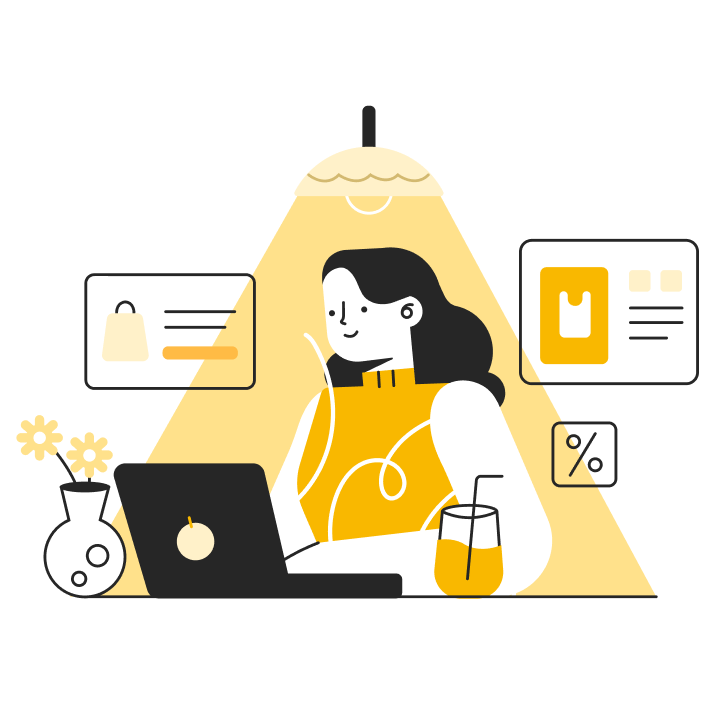
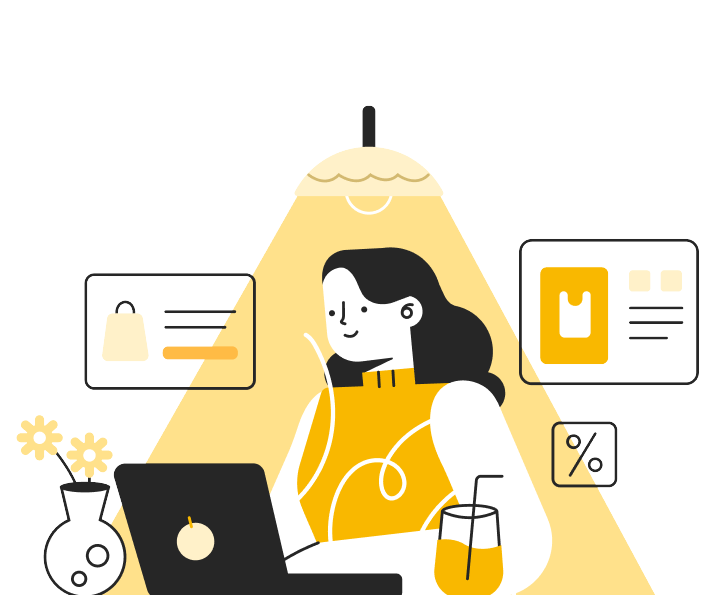
Home section responsive added

diff --git a/index.html b/index.html
@@ -8,69 +8,90 @@
   <link href="https://cdn.jsdelivr.net/npm/daisyui@4.12.14/dist/full.min.css" rel="stylesheet" type="text/css" />
   <link href="https://cdn.jsdelivr.net/npm/daisyui@4.12.14/dist/full.min.css" rel="stylesheet" type="text/css" />
   <script src="https://cdn.tailwindcss.com"></script>
+  <link rel="preconnect" href="https://fonts.googleapis.com">
+  <link rel="preconnect" href="https://fonts.gstatic.com" crossorigin>
+  <link href="https://fonts.googleapis.com/css2?family=Inter:wght@400;500;600;700&display=swap" rel="stylesheet">
+  <style>
+    @import url('https://fonts.googleapis.com/css2?family=Inter:ital,opsz,wght@0,14..32,100..900;1,14..32,100..900&display=swap');
+  </style>
+
+
 </head>
+<style>
+  body {
+    font-family: 'Inter', sans-serif;
+  }
+</style>
 
 <body class="m-0">
-  <main class="bg-yellow-200 h-auto w-fit">
-    <div class="mx-5 py-12">
-      <nav class=" flex justify-start w-screen bg-white rounded-xl p-4">
+  <main class="h-auto md:h-screen" style="background-color:#FEEDBC ;">
+    <div class="mx-7 py-12 md:mx-16 h-full">
+      <nav class="flex justify-start bg-white rounded-full p-4 md:justify-center md:p-2">
         <img src="images/logo.png" class="w-10- h-10">
       </nav>
-      <div>
-        <img src="images/home pic.png" alt="">
-      </div>
-      <div>
-        <p class="mb-5 text-xl font-semibold text-orange-500">Lorem, ipsum dolor.</p>
-        <h1 class="text-black mb-12 text-4xl font-bold">Lorem ipsum<br> dolor sit.</h1>
-        <div class="text-black">
-          <div class="rounded-full w-fit flex p-5 gap-3 bg-white mb-5">
-            <svg xmlns="http://www.w3.org/2000/svg" fill="none" viewBox="0 0 24 24" stroke-width="1.5" stroke="orange"
-              class="size-6">
-              <path stroke-linecap="round" stroke-linejoin="round"
-                d="M9 12.75 11.25 15 15 9.75M21 12a9 9 0 1 1-18 0 9 9 0 0 1 18 0Z" />
-            </svg>
-            <p>cursus Integer</p>
+      <div class="h-full flex flex-col md:flex-row-reverse md:items-center md:justify-around">
 
-          </div>
-          <div class="rounded-full w-fit flex p-5 bg-white gap-3 mb-5">
-            <svg xmlns="http://www.w3.org/2000/svg" fill="none" viewBox="0 0 24 24" stroke-width="1.5" stroke="orange"
-              class="size-6">
-              <path stroke-linecap="round" stroke-linejoin="round"
-                d="M9 12.75 11.25 15 15 9.75M21 12a9 9 0 1 1-18 0 9 9 0 0 1 18 0Z" />
-            </svg>
-            <p>Integer Consequat</p>
-
-          </div>
-          <div class=" rounded-full w-fit flex p-5 gap-3 bg-white mb-5">
-            <svg xmlns="http://www.w3.org/2000/svg" fill="none" viewBox="0 0 24 24" stroke-width="1.5" stroke="orange"
-              class="size-6">
-              <path stroke-linecap="round" stroke-linejoin="round"
-                d="M9 12.75 11.25 15 15 9.75M21 12a9 9 0 1 1-18 0 9 9 0 0 1 18 0Z" />
-            </svg>
-            <p>Tellus Euismod Pellentesque </p>
-
-          </div>
-          <div class="rounded-full w-fit flex p-5 bg-white gap-3 mb-5">
-            <svg xmlns="http://www.w3.org/2000/svg" fill="none" viewBox="0 0 24 24" stroke-width="1.5" stroke="orange"
-              class="size-6">
-              <path stroke-linecap="round" stroke-linejoin="round"
-                d="M9 12.75 11.25 15 15 9.75M21 12a9 9 0 1 1-18 0 9 9 0 0 1 18 0Z" />
-            </svg>
-            <p>cursus Integer</p>
-
-          </div>
-
+        <div class="flex items-end">
+          <img src="images/home pic.png" alt="" class="shrink-0 md: md:h-96">
         </div>
-        <button class=" text-black rounded-full bg-orange-500 flex justify-between w-full p-5 ">
-          Lorem Ipsum
-          <img src="images/icon.png"> </button>
+        <div class="h-full flex flex-col md:w-fit md:justify-center">
+
+          <div>
+            <p class="mb-3 text-xl font-semibold text-orange-500 md:">Lorem, ipsum dolor.</p>
+            <h1 class="text-black mb-12 text-4xl font-bold font-Inter md:text-5xl lg:text-6xl">Cursus Integer <br>Consequat Tristique.</h1>
+          </div>
+
+          <div class="text-xs text-black flex flex-col md:flex-row md:gap-2">
+            <div class="rounded-full w-fit flex items-center p-4 gap-3 bg-white mb-3 md:p-3 md:mb-2 md:gap-2">
+              <svg xmlns="http://www.w3.org/2000/svg" fill="none" viewBox="0 0 24 24" stroke-width="1.5" stroke="orange"
+                class="size-6">
+                <path stroke-linecap="round" stroke-linejoin="round"
+                  d="M9 12.75 11.25 15 15 9.75M21 12a9 9 0 1 1-18 0 9 9 0 0 1 18 0Z" />
+              </svg>
+              <p>cursus Integer</p>
+
+            </div>
+            <div class="rounded-full w-fit flex items-center p-4 gap-3 bg-white mb-3 md:p-3 md:mb-2 md:gap-2">
+              <svg xmlns="http://www.w3.org/2000/svg" fill="none" viewBox="0 0 24 24" stroke-width="1.5" stroke="orange"
+                class="size-6">
+                <path stroke-linecap="round" stroke-linejoin="round"
+                  d="M9 12.75 11.25 15 15 9.75M21 12a9 9 0 1 1-18 0 9 9 0 0 1 18 0Z" />
+              </svg>
+              <p>Integer Consequat</p>
+            </div>
+          </div>
+          <div class=" text-xs text-black flex  flex-col md:flex-row md:gap-2">
+            <div class="rounded-full w-fit flex items-center p-4 gap-3 bg-white mb-3 md:p-3 md:mb-2 md:gap-2">
+              <svg xmlns="http://www.w3.org/2000/svg" fill="none" viewBox="0 0 24 24" stroke-width="1.5" stroke="orange"
+                class="size-6">
+                <path stroke-linecap="round" stroke-linejoin="round"
+                  d="M9 12.75 11.25 15 15 9.75M21 12a9 9 0 1 1-18 0 9 9 0 0 1 18 0Z" />
+              </svg>
+              <p>Tellus Euismod Pellentesque </p>
+
+            </div>
+            <div class="rounded-full w-fit flex items-center p-4 gap-3 bg-white mb-3 md:p-3 md:mb-2 md:gap-2">
+              <svg xmlns="http://www.w3.org/2000/svg" fill="none" viewBox="0 0 24 24" stroke-width="1.5" stroke="orange"
+                class="size-6">
+                <path stroke-linecap="round" stroke-linejoin="round"
+                  d="M9 12.75 11.25 15 15 9.75M21 12a9 9 0 1 1-18 0 9 9 0 0 1 18 0Z" />
+              </svg>
+              <p>cursus Integer</p>
+            </div>
+          </div>
+          <button class=" text-black rounded-full flex justify-between mt-8 w-full p-5 md:p-3 md:px-7 md:w-fit md:gap-20" style="background-color:#F9B800 ;">
+            Lorem Ipsum
+            <img src="images/icon.png"> 
+          </button>
+        </div>
       </div>
   </main>
 
-  <section class="bg-gray-900">
-    <div class="mx-5 pt-10">
+  <section style="background-color: #262626;">
+    <div class="mx-7 pt-10 pb-96">
       <div class="mb-12">
-        <p class="text-xl font-semibold text text-yellow-300">Lorem ipsum dolor sit amet, consectetur adipisicing elit.
+        <p class="text-xl font-semibold text" style="color: #F9B800;">Lorem ipsum dolor sit amet, consectetur
+          adipisicing elit.
           Rerum a in labore consectetur aspernatur ducimus.</p>
         <h3 class="text-white font-bold my-8 text-4xl ">Cursus Integer Consequat ALiquam Tristique</h3>
         <button class="text-black font-bold rounded-full bg-white flex justify-between w-full py-5 px-8">
@@ -78,40 +99,42 @@
           <img src="images/icon.png">
         </button>
       </div>
+
+
       <div class="grid grid-cols-1">
-        <div class="bg-white p-12 rounded-[15%] mb-8">
+        <div class="bg-white p-16 rounded-[15%] mb-10">
           <img src="images/Icon-Images.png" alt="" class="mb-10">
           <h5 class="text-black font-bold text-5xl">1<span class="text-orange-600">.</span></h5>
           <p class="text-black font-bold text-2xl my-6">Lorem, ipsum.</p>
           <p class="text-black text-xl font-semibold">Lorem</p>
-          <p class="text-lg text-gray-400 font-sans">
+          <p class="text-lg text-gray-600 font-sans">
             Lorem, ipsum dolor.
           </p>
         </div>
-        <div class="bg-orange-400 p-12 rounded-[15%] mb-8">
+        <div class="p-16 rounded-[15%] mb-8" style="background-color: #F9B800;">
           <img src="images/icon-2.png" alt="" class="mb-10">
           <h5 class="text-black font-bold text-5xl">2<span class="text-white">.</span></h5>
           <p class="text-black font-bold text-2xl my-6">Lorem, ipsum.</p>
           <p class="text-black text-xl font-semibold">Lorem</p>
-          <p class="text-lg text-gray-400 font-sans">
+          <p class="text-lg text-gray-700 font-sans">
             Lorem, ipsum dolor.
           </p>
         </div>
-        <div class="bg-white p-12 rounded-[15%] mb-8">
+        <div class="bg-white p-16 rounded-[15%] mb-10">
           <img src="images/Icon-3.png" alt="" class="mb-10">
           <h5 class="text-black font-bold text-5xl">3<span class="text-orange-600">.</span></h5>
           <p class="text-black font-bold text-2xl my-6">Lorem, ipsum.</p>
           <p class="text-black text-xl font-semibold">Lorem</p>
-          <p class="text-lg text-gray-400 font-sans">
+          <p class="text-lg text-gray-600 font-sans">
             Lorem, ipsum dolor.
           </p>
         </div>
-        <div class="bg-orange-400 p-12 rounded-[15%] mb-8">
+        <div class="p-16 rounded-[15%] mb-8" style="background-color: #F9B800;">
           <img src="images/Icon-4.png" alt="" class="mb-10">
           <h5 class="text-black font-bold text-5xl">4<span class="text-white">.</span></h5>
           <p class="text-black font-bold text-2xl my-6">Lorem, ipsum.</p>
           <p class="text-black text-xl font-semibold">Lorem</p>
-          <p class="text-lg text-gray-400 font-sans">
+          <p class="text-lg text-gray-700 font-sans">
             Lorem, ipsum dolor.
           </p>
         </div>
@@ -119,88 +142,85 @@
     </div>
   </section>
 
-    <div class="bg-yellow-200 h-screen relative p-10">
-      <div class="w-full px-5 py-12 flex flex-col gap-8 bg-white rounded-3xl pb-10 absolute">
-        <img src="images/Man.png" alt="card-image p-5">
-        <div class="text-center">
-          <h3 class="text-black font-bold text-4xl ">What Our Customer Thought</h3>
-          <p class="my-8 font-light text-black text-lg">Euismod magna id purus eget nunc ligula suspendisse dui netus.
-            Condimentum blandit rutrum at mauris enim
-            pulvinar duis etiam duis. </p>
-          <h5 class="text-black font-bold text-2xl"> Holy Davidson</h5>
-        </div>
-        <button class="flex gap-8 justify-center">
-          <svg xmlns="http://www.w3.org/2000/svg" fill="none" viewBox="0 0 24 24" stroke-width="1.5" stroke="orange"
-            class="size-6">
-            <path stroke-linecap="round" stroke-linejoin="round" d="M6.75 15.75 3 12m0 0 3.75-3.75M3 12h18" />
-          </svg>
-          <svg xmlns="http://www.w3.org/2000/svg" fill="none" viewBox="0 0 24 24" stroke-width="1.5" stroke="black"
-            class="size-6">
-            <path stroke-linecap="round" stroke-linejoin="round" d="M17.25 8.25 21 12m0 0-3.75 3.75M21 12H3" />
-          </svg>
-        </button>
+  <div class="mx-auto  relative p-8" style="background-color: #F9B800;">
+    <div class="-translate-y-1/2 w-full h-full px-5 py-12 flex flex-col gap-8 bg-white rounded-3xl pb-10">
+      <div>
+        <img src="images/Man.png" alt="card-image" class="p-5">
       </div>
+      <div class="text-center">
+        <h3 class="text-black font-bold text-4xl ">What Our Customer Thought</h3>
+        <p class="my-8 font-light text-black text-lg">Euismod magna id purus eget nunc ligula suspendisse dui netus.
+          Condimentum blandit rutrum at mauris enim
+          pulvinar duis etiam duis. </p>
+        <h5 class="text-black font-bold text-2xl"> Holy Davidson</h5>
+      </div>
+      <button class="flex gap-8 justify-center">
+        <svg xmlns="http://www.w3.org/2000/svg" fill="none" viewBox="0 0 24 24" stroke-width="1.5" stroke="orange"
+          class="size-6">
+          <path stroke-linecap="round" stroke-linejoin="round" d="M6.75 15.75 3 12m0 0 3.75-3.75M3 12h18" />
+        </svg>
+        <svg xmlns="http://www.w3.org/2000/svg" fill="none" viewBox="0 0 24 24" stroke-width="1.5" stroke="black"
+          class="size-6">
+          <path stroke-linecap="round" stroke-linejoin="round" d="M17.25 8.25 21 12m0 0-3.75 3.75M21 12H3" />
+        </svg>
+      </button>
     </div>
+  </div>
 
 
-  <section class="bg-gray-800">
-    <div class="mx-5 py-16">
+  <section style="background-color: #262626;">
+    <div class="mx-7 py-16">
       <h3 class="mt-12 text-center text-white font-bold text-4xl ">Quam vehicula faucibus amet lorem. </h3>
       <p class="my-8 text-center text-xl font-semibold text text-white">Euismod magna id purus eget nunc ligula
         suspendisse dui netus. Condimentum blandit rutrum at mauris enim pulvinar duis etiam duis. Mauris fermentum
         praesent tellus euismod.</p>
-      <div class="flex mt-5 justify-between bg-white p-8 rounded-3xl">
-        <div>
-          <h5 class="text-black font-semibold text-2xl"> Holy Davidson</h5>
-          <p class="mt-6 font-light text-black text-lg">Euismod magna id purus eget nunc ligula suspendisse dui netus.
-            Condimentum blandit rutrum at mauris enim
-            pulvinar duis etiam duis. </p>
-        </div>
-        <svg xmlns="http://www.w3.org/2000/svg" fill="none" viewBox="0 0 24 24" stroke-width="1.5" stroke="orange"
-          class=" shrink-0 size-8">
-          <path stroke-linecap="round" stroke-linejoin="round" d="M5 12h14" />
-        </svg>
-      </div>
-      <div class="flex justify-between items-center mt-5 bg-white p-8 rounded-3xl">
-        <div>
-          <h5 class="text-black font-semibold text-2xl"> Pellentesque tempus sed phasellus vel. </h5>
-        </div>
-        <svg xmlns="http://www.w3.org/2000/svg" fill="none" viewBox="0 0 24 24" stroke-width="1.5" stroke="orange"
-          class="shrink-0 size-8">
-          <path stroke-linecap="round" stroke-linejoin="round" d="M12 4.5v15m7.5-7.5h-15" />
-        </svg>
-      </div>
-      <div class="flex items-center justify-between mt-5 bg-white p-8 rounded-3xl">
-        <div>
-          <h5 class="text-black font-semibold text-2xl"> Mauris fermentum praesent tellus euismod pellentesque urna ac
-            massa in. </h5>
-        </div>
-        <svg xmlns="http://www.w3.org/2000/svg" fill="none" viewBox="0 0 24 24" stroke-width="1.5" stroke="orange"
-          class="shrink-0 size-8">
-          <path stroke-linecap="round" stroke-linejoin="round" d="M12 4.5v15m7.5-7.5h-15" />
-        </svg>
-      </div>
+      <div class="flex flex-col gap-4 text-black">
 
-      <div class="flex items-center justify-between mt-5 bg-white p-8 rounded-3xl">
-        <div>
-          <h5 class="text-black font-semibold text-2xl"> Vulputate et vulputate suspendisse natoque id tellus
-            consectetur pulvinar et. </h5>
+        <div class="collapse collapse-plus bg-white">
+          <input type="radio" name="my-accordion-3" checked="checked" />
+          <div class="collapse-title text-xl font-medium">Quam vehicula faucibus amet lorem. </div>
+          <div class="collapse-content">
+            <p>Euismod magna id purus eget nunc ligula suspendisse dui netus. Condimentum blandit rutrum at mauris enim
+              pulvinar duis etiam duis. Mauris fermentum praesent tellus euismod.</p>
+          </div>
         </div>
-        <svg xmlns="http://www.w3.org/2000/svg" fill="none" viewBox="0 0 24 24" stroke-width="1.5" stroke="orange"
-          class="shrink-0 size-8">
-          <path stroke-linecap="round" stroke-linejoin="round" d="M12 4.5v15m7.5-7.5h-15" />
-        </svg>
+
+        <div class="collapse collapse-plus bg-white">
+          <input type="radio" name="my-accordion-3" />
+          <div class="collapse-title text-xl font-medium">Pellentesque tempus sed phasellus vel. </div>
+          <div class="collapse-content">
+            <p>hello</p>
+          </div>
+        </div>
+
+        <div class="collapse collapse-plus bg-white">
+          <input type="radio" name="my-accordion-3" />
+          <div class="collapse-title text-xl font-medium">Mauris fermentum praesent tellus euismod pellentesque urna ac
+            massa in. </div>
+          <div class="collapse-content">
+            <p>hello</p>
+          </div>
+        </div>
+        <div class="collapse collapse-plus bg-white">
+          <input type="radio" name="my-accordion-4" />
+          <div class="collapse-title text-xl font-medium">Vulputate et vulputate suspendisse natoque id tellus
+            consectetur pulvinar et. </div>
+          <div class="collapse-content">
+            <p>hello</p>
+          </div>
+        </div>
       </div>
 
     </div>
   </section>
 
-  <section class="bg-yellow-200">
-    <div class="text-black mx-5 py-8">
+  <section class="" style="background-color: #FEEDBC;">
+    <div class="text-black mx-7 py-8">
       <div class="flex flex-col">
         <h5 class="text-black font-semibold text-2xl"> Vulputate et vulputate suspendisse natoque id tellus consectetur
           pulvinar et. </h5>
-        <button class="mt-5 text-black rounded-full bg-orange-500 flex justify-between w-full p-5 ">
+        <button class="mt-5 text-black rounded-full flex justify-between w-full p-5 "
+          style="background-color: #F9B800;">
           Lorem Ipsum
           <img src="images/icon.png"> </button>
       </div>
@@ -209,8 +229,8 @@
         <p>
           Copyright © 2022 Lorem Ipsum.
         </p>
-          <p>Privacy Policy | Terms and Conditions
-          </p>
+        <p>Privacy Policy | Terms and Conditions
+        </p>
       </div>
 
     </div>

diff --git a/tailwind.config.js b/tailwind.config.js
@@ -1,9 +1,14 @@
 /** @type {import('tailwindcss').Config} */
 module.exports = {
-  content: ["./src/**/*.{html,js}"],
+  content: ["./src/**/*.{html,js}", "./*.html"],
   theme: {
     extend: {
-      
+      fontFamily: {
+        inter: ['Inter', 'sans-serif'],
+      },
+      colors: {
+        customColor: '#F9B800',
+      },
     },
   },
   plugins: [],
